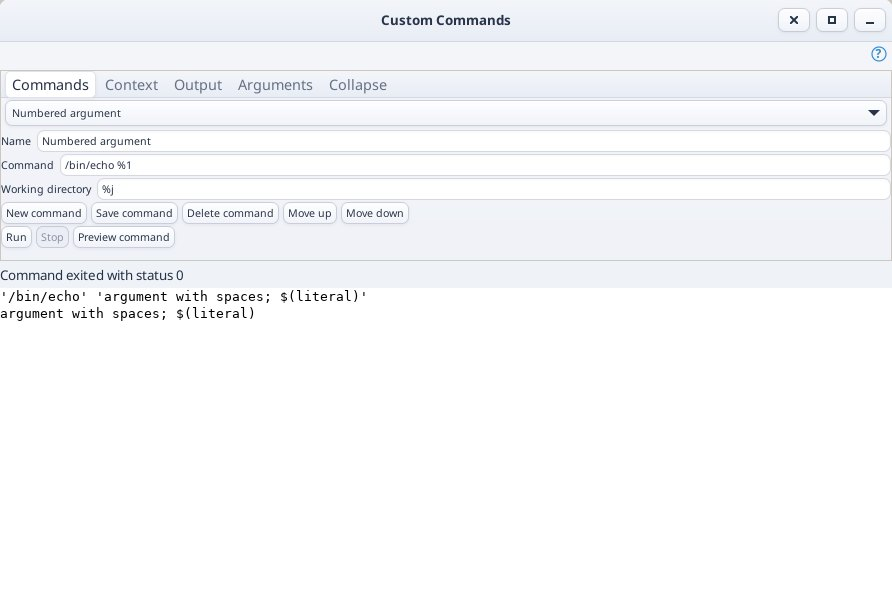
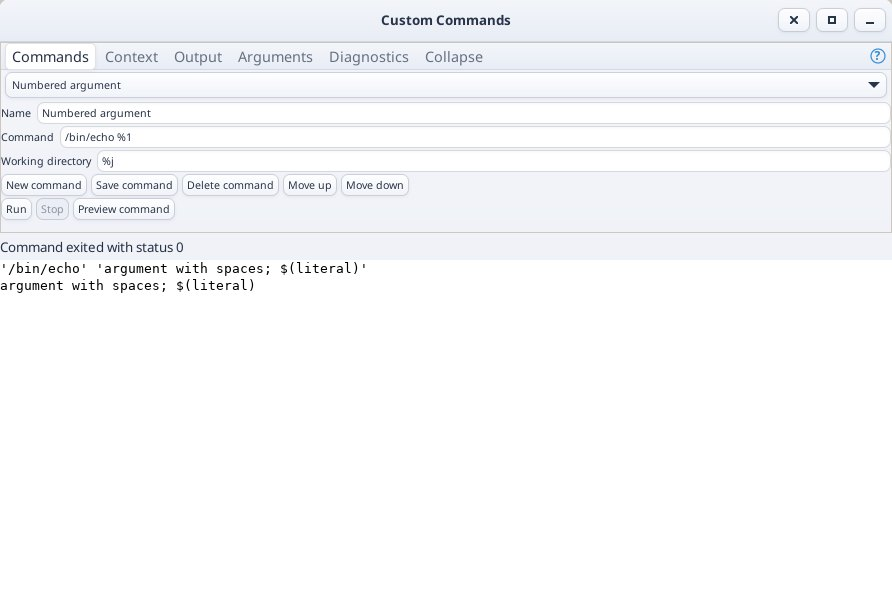
Document verified command and diagnostic windows with native screenshots

Changed region(s): [[0.0, 0.0625, 1.0, 0.5312], [0.9989, 0.375, 1.0, 0.4375]]

diff --git a/insight/docs/ru/custom-commands.md b/insight/docs/ru/custom-commands.md
@@ -52,6 +52,8 @@ python3 %1 %f
 
 ## Переходы из диагностик в исходники
 
+![Таблица диагностик в изолированном Linux GUI-тесте](../media/custom-command-links.jpg)
+
 Во вкладке **«Диагностика» → «Разобрать ссылки на исходники»** снимок вывода последней команды преобразуется в сортируемую таблицу «Файл / Строка / Колонка / Сообщение» — до 1000 записей. Строка с самой запускаемой командой исключается. Распознаются обычные форматы GCC/Clang `file:line[:column]: message`, MSVC `file(line[,column]): message` и traceback Python `File "name", line N`; при разборе удаляются цветовые ANSI SGR-коды. Разбор не читает исходники и не меняет состав проекта.
 
 Двойной щелчок или «Открыть исходник» открывают файл на указанной строке, сохраняя окно инструментов. Есть первая, предыдущая и следующая ссылки, а также **F4 / Shift+F4** внутри этого окна. Переходы включаются в обычную историю навигации редактора. Колонка отображается как метаданные диагностики; переход выполняется к началу строки. Недоступный файл и номер строки за пределами текущего буфера выводятся сообщением. Текст исходника и Undo при навигации не изменяются.

diff --git a/insight/docs/custom-commands.md b/insight/docs/custom-commands.md
@@ -52,6 +52,8 @@ python3 %1 %f
 
 ## Переходы из диагностик в исходники
 
+![Таблица диагностик в изолированном Linux GUI-тесте](media/custom-command-links.jpg)
+
 Во вкладке **«Диагностика» → «Разобрать ссылки на исходники»** снимок вывода последней команды преобразуется в сортируемую таблицу «Файл / Строка / Колонка / Сообщение» — до 1000 записей. Строка с самой запускаемой командой исключается. Распознаются обычные форматы GCC/Clang `file:line[:column]: message`, MSVC `file(line[,column]): message` и traceback Python `File "name", line N`; при разборе удаляются цветовые ANSI SGR-коды. Разбор не читает исходники и не меняет состав проекта.
 
 Двойной щелчок или «Открыть исходник» открывают файл на указанной строке, сохраняя окно инструментов. Есть первая, предыдущая и следующая ссылки, а также **F4 / Shift+F4** внутри этого окна. Переходы включаются в обычную историю навигации редактора. Колонка отображается как метаданные диагностики; переход выполняется к началу строки. Недоступный файл и номер строки за пределами текущего буфера выводятся сообщением. Текст исходника и Undo при навигации не изменяются.

diff --git a/insight/docs/en/custom-commands.md b/insight/docs/en/custom-commands.md
@@ -52,6 +52,8 @@ Reference: [Source Insight Custom Commands](https://www.sourceinsight.com/doc/v4
 
 ## Source links from diagnostics
 
+![Diagnostic source-link table in an isolated Linux GUI fixture](../media/custom-command-links.jpg)
+
 On **Diagnostics**, **Parse Source Links** scans a snapshot of the latest command output into a sortable File / Line / Column / Message table (up to 1000 records). The displayed launch command is excluded. Typical GCC/Clang `file:line[:column]: message`, MSVC `file(line[,column]): message` and Python traceback `File "name", line N` formats are recognized; ANSI SGR colors are stripped for parsing. Parsing does not read source files or change project membership.
 
 Double-click a row or choose Open source. First/Previous/Next link and **F4 / Shift+F4** within this tool window use native editor navigation history. The file opens in the editor without closing the tool window; the reported line is used, while the optional column is displayed as diagnostic metadata. Missing files and line numbers beyond the current buffer are reported. No code or Undo contents are modified by navigation.
